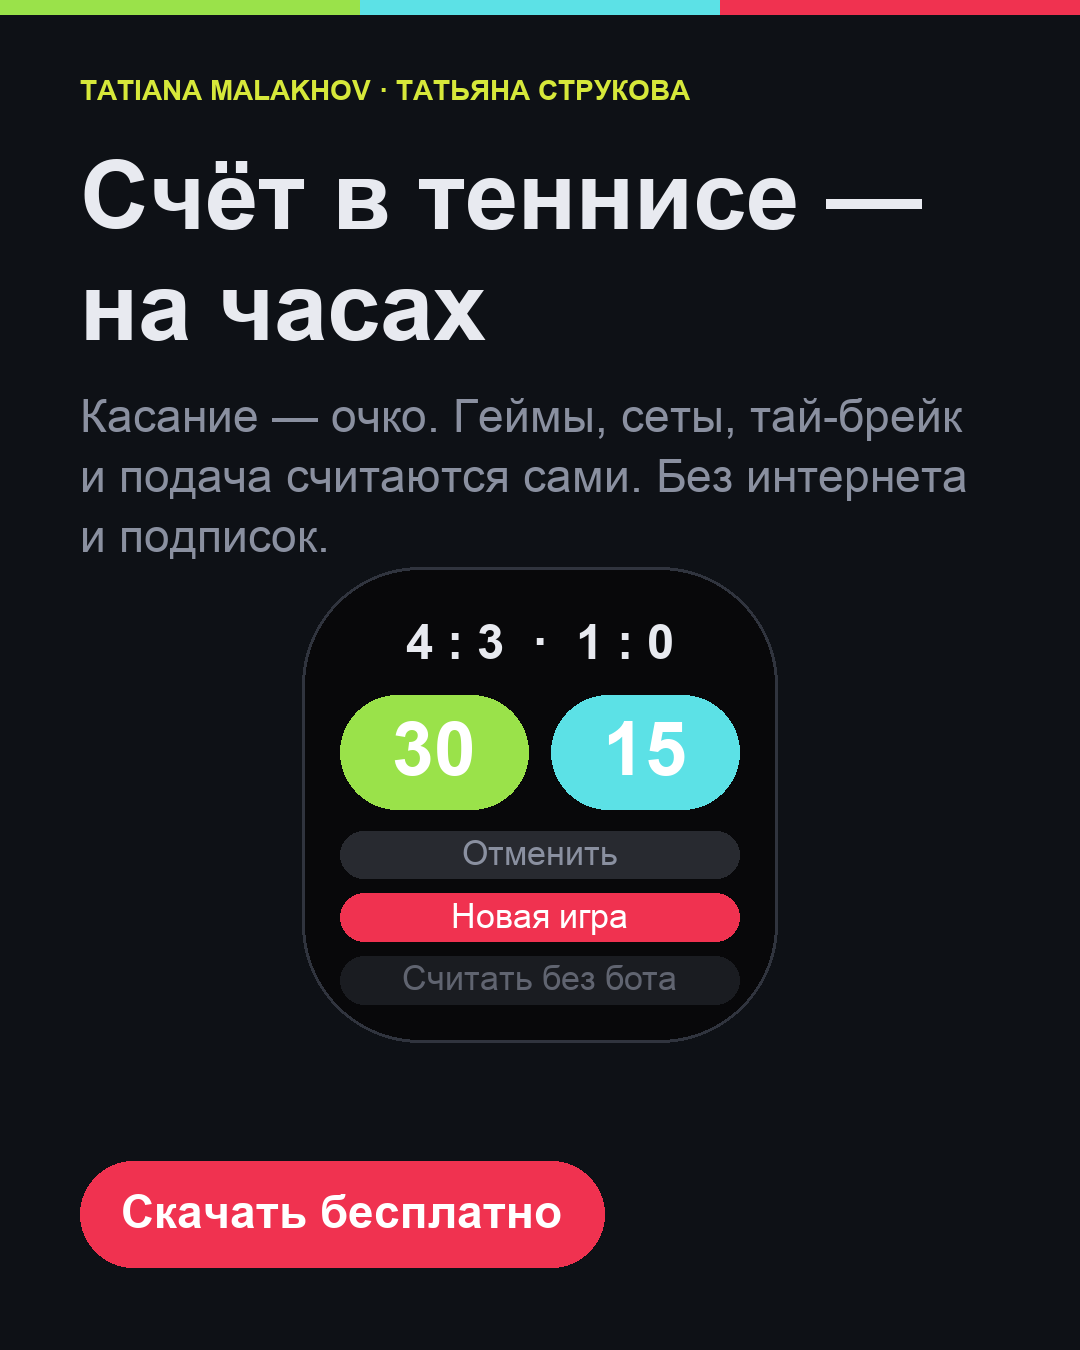
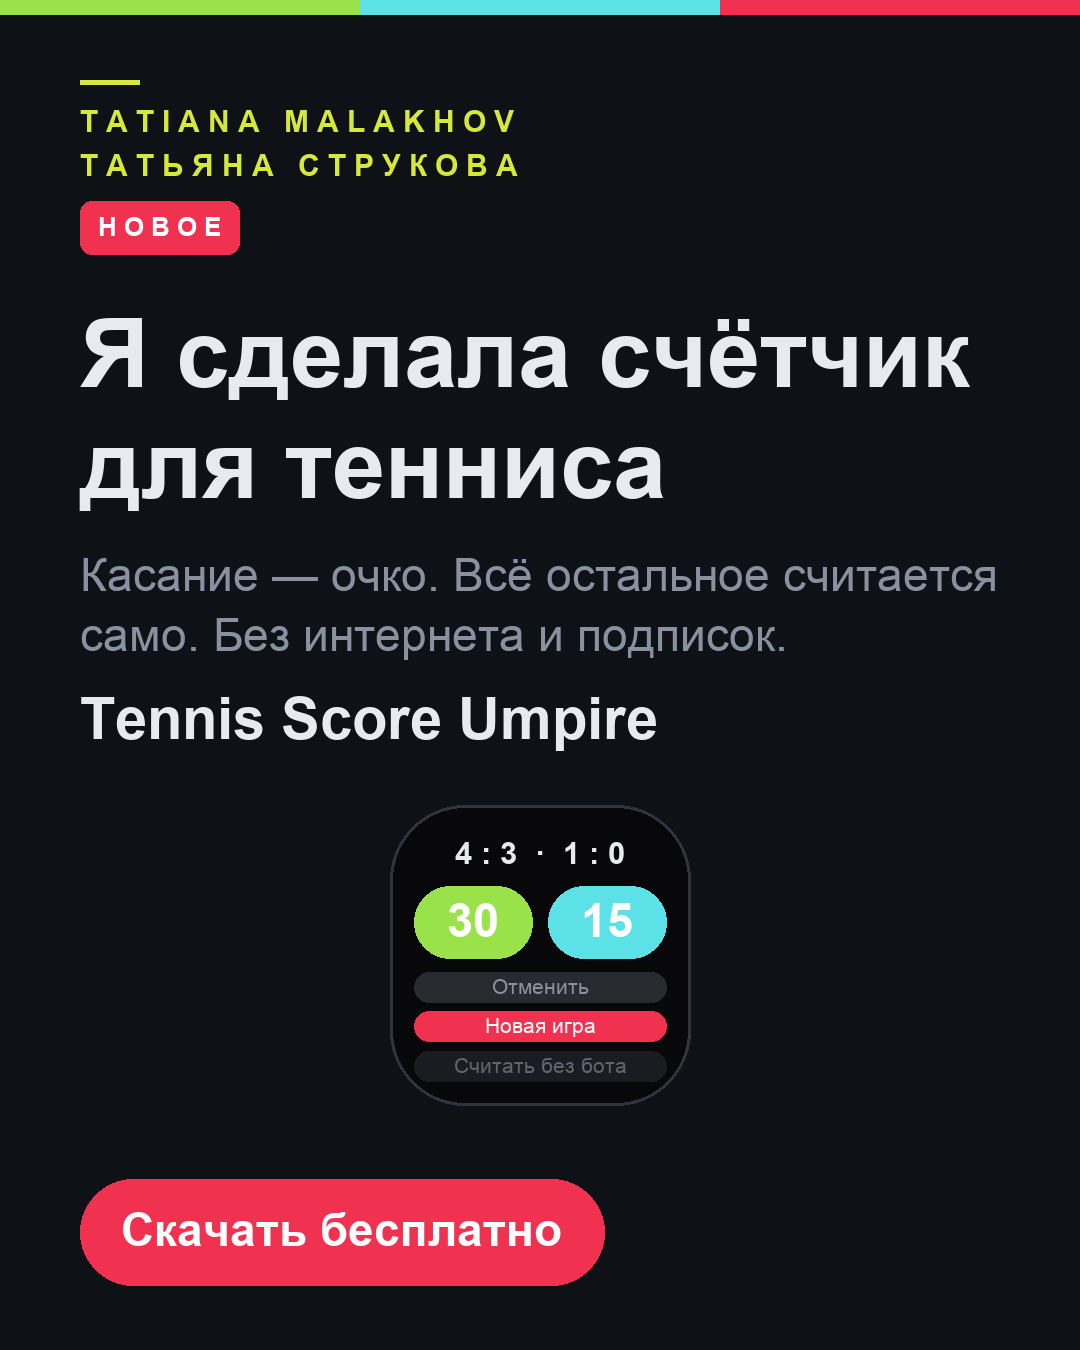
Равные имена, название приложения и место под стикер ссылки
Струкова была набрана мельче и тише — читатель понимал это буквально:
настоящее имя сверху, второстепенное снизу. У неё не так: просто в двух
странах её зовут по-разному. Теперь оба одинаковые.

Вернулась красная кнопка: ссылку в историю вставляют стикером, а он
квадратный и садится поверх картинки. Под кнопкой оставлена пустая
полоса — всё, что там нарисовать, стикер закроет.

И появилось название приложения. Без него человек запоминает, что
«кто-то сделал счётчик», и не может найти его в магазине.

Changed region(s): [[0.0611, 0.0622, 0.9167, 0.8089], [0.0611, 0.84, 0.5806, 0.9644], [0.7639, 0.1244, 0.8556, 0.1556]]

diff --git a/tools/make_card.py b/tools/make_card.py
@@ -43,8 +43,11 @@ TALL = {
     # ответа и вложенную ссылку. Всё, что попадёт в эти полосы, читатель
     # не увидит вовсе. Поэтому содержимое живёт между ними, а не по
     # краям картинки.
-    "story": {"sign": 0.135, "title": 0.185, "watch": 0.42,
-              "size": 0.48, "cta": 0.78, "gap": 0.055},
+    # reserve — пустая полоса внизу под квадратный стикер ссылки на
+    # App Store. Его вставляют поверх картинки, и всё, что окажется под
+    # ним, пропадёт: рисовать там что-либо значит рисовать в мусор.
+    "story": {"sign": 0.125, "title": 0.185, "watch": 0.42,
+              "size": 0.48, "cta": 0.78, "gap": 0.045, "reserve": 0.20},
 }
 SIZE = SHAPES["post"]
 
@@ -203,7 +206,7 @@ def pill(draw, x: int, y: int, text: str, size: int, colour=FRESH):
 def card(title: str, subtitle: str = "", note: str = "",
          name: str = "card.png", face: tuple = None,
          shape: str = "post", lang: str = "ru", author: str = "",
-         style: str = "ad", label: str = "") -> str:
+         style: str = "ad", label: str = "", app: str = "") -> str:
     """Карточка к посту в двух регистрах.
 
     style="ad" — реклама: внизу красная кнопка, которая зовёт нажать.
@@ -239,36 +242,30 @@ def card(title: str, subtitle: str = "", note: str = "",
     # читали раньше, чем описание.
     head_y = size[1] * plan["sign"] if tall else 70
     if author:
-        # Имя — не подпись мелким шрифтом, а марка. Дорогое впечатление
-        # дают три вещи: воздух между буквами, короткая черта над именем
-        # и цвет, который на карточке больше нигде не повторяется.
+        # Оба имени — равные. Одно набрано мельче и тише, и читатель
+        # понимает это буквально: настоящее сверху, второстепенное снизу.
+        # У неё это не так — просто в двух странах её зовут по-разному.
         #
-        # Двойное имя разводим на две строки: «как знают в мире» —
-        # вразрядку акцентом, «как знают здесь» — ниже и тише. В одну
-        # строку с промежутками оно расползается на всю ширину и
-        # перестаёт читаться как имя.
-        first, _, second = author.partition("·")
+        # Дорогое впечатление даёт не размер, а воздух: разрядка, короткая
+        # черта сверху и цвет, который на карточке больше нигде не
+        # повторяется.
         sign = font("Arial Bold.ttf", 30 if tall else 25)
-
         rule = int(size[0] * (0.055 if tall else 0.045))
         draw.rectangle([margin, head_y + 6, margin + rule, head_y + 10],
                        fill=ACCENT)
         head_y += 30 if tall else 24
 
-        draw.text((margin, head_y), " ".join(first.strip().upper()),
-                  font=sign, fill=ACCENT)
-        head_y += sign.size * 1.5
+        for part in [p.strip() for p in author.split("·") if p.strip()]:
+            draw.text((margin, head_y), " ".join(part.upper()),
+                      font=sign, fill=ACCENT)
+            head_y += sign.size * 1.45
 
-        if second.strip():
-            quiet = font("Arial.ttf", 26 if tall else 22)
-            draw.text((margin, head_y), second.strip(), font=quiet, fill=DIM)
-            head_y += quiet.size * 1.2
+    if label:
+        head_y = tag(draw, margin, int(head_y) + 10, label,
+                     26 if tall else 22)
 
     if tall:
         width = size[0] - margin * 2
-        if label:
-            head_y = tag(draw, margin, int(head_y) + 10, label,
-                         26 if tall else 22)
         y = max(size[1] * plan["title"], head_y + (46 if tall else 34))
         for line in wrap(draw, title, big, width):
             draw.text((margin, y), line, font=big, fill=INK)
@@ -280,24 +277,38 @@ def card(title: str, subtitle: str = "", note: str = "",
                 draw.text((margin, y), line, font=mid, fill=DIM)
                 y += mid.size * 1.3
 
+        if app:
+            # Название приложения — отдельной строкой и крупно. Без него
+            # человек запоминает, что «кто-то сделал счётчик», и не может
+            # найти его в магазине.
+            y += 18
+            brand = font("Arial Bold.ttf", 58 if tall else 46)
+            draw.text((margin, y), app, font=brand, fill=INK)
+            y += brand.size * 1.35
+
+        # Нижняя граница содержимого: под ней место для стикера ссылки.
+        limit = size[1] * (1 - plan.get("reserve", 0.06))
+        cta_h = int(46 * 1.2 + 46 * 0.55 * 2)
+        cta_y = int(limit - cta_h)
+
         bottom = None
         if face:
             # Экран ставим ниже текста, а не в заданную точку: заголовок
             # в три строки длиннее, чем в две, и жёсткая координата
             # загоняет часы прямо на буквы.
-            top = max(int(size[1] * plan["watch"]), int(y + size[1] * 0.035))
+            top = max(int(size[1] * plan["watch"]), int(y + size[1] * 0.03))
             screen = int(size[0] * plan["size"])
-            room = int(size[1] * plan["cta"]) - int(size[1] * plan["gap"]) - top
-            screen = max(260, min(screen, room))
+            room = cta_y - int(size[1] * plan["gap"]) - top
+            # Ниже трёхсот точек экран часов перестаёт читаться: на
+            # клавишах не разобрать ни счёта, ни подписей.
+            screen = max(300, min(screen, room))
             watch(draw, (size[0] - screen) // 2, top, screen,
                   face[0], face[1], lang)
             bottom = top + screen
 
         if note:
-            # Кнопку ставим от нижнего края экрана, а не по доле высоты:
-            # иначе при другом размере часов она в него упирается, и это
-            # видно только на готовой картинке.
-            cta_y = int(size[1] * plan["cta"])
+            # Кнопка стоит над зарезервированной полосой и не ближе
+            # заданного просвета к экрану часов.
             if bottom is not None:
                 cta_y = max(cta_y, bottom + int(size[1] * plan["gap"]))
             if news:
@@ -308,9 +319,6 @@ def card(title: str, subtitle: str = "", note: str = "",
     else:
         screen = 420 if face else 0
         width = size[0] - margin * 2 - (screen + 40 if face else 0)
-        if label:
-            head_y = tag(draw, margin, int(head_y) + 8, label,
-                         26 if tall else 22)
         y = max(150, head_y + 34)
         if face:
             watch(draw, size[0] - margin - screen, 160, screen,
@@ -325,6 +333,11 @@ def card(title: str, subtitle: str = "", note: str = "",
             for line in wrap(draw, subtitle, mid, width):
                 draw.text((margin, y), line, font=mid, fill=DIM)
                 y += 52
+
+        if app:
+            y += 14
+            brand = font("Arial Bold.ttf", 44)
+            draw.text((margin, y), app, font=brand, fill=INK)
 
         if note:
             if news:
@@ -355,11 +368,13 @@ def main() -> int:
     parser.add_argument("--style", default="ad", choices=("ad", "news"),
                         help="ad — кнопка внизу, news — метка вверху")
     parser.add_argument("--label", default="", help="текст метки: «НОВОЕ»")
+    parser.add_argument("--app", default="", help="название приложения")
     args = parser.parse_args()
 
     face = (args.score, args.points) if args.score and args.points else None
     print(card(args.title, args.sub, args.cta, args.name, face,
-               args.shape, args.lang, args.author, args.style, args.label))
+               args.shape, args.lang, args.author, args.style, args.label,
+               args.app))
     return 0
 
 
